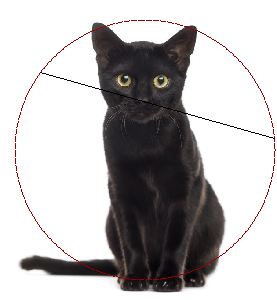
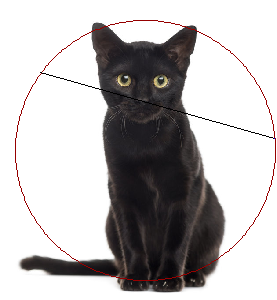
need to add pixel calcs

diff --git a/imagetest.py b/imagetest.py
@@ -135,13 +135,13 @@ kitty = kitty.resize((kittyWidth, kittyHeight))
 
 draw = ImageDraw.Draw(kitty)
 
-for pix in coords:
-    draw.point(((pix)), fill=(150))
+# for pix in coords:
+#     draw.point(((pix)), fill=(150))
 
-# x=137
-# y=150
-# r=132
-# draw.ellipse((x-r, y-r, x+r, y+r), outline=(150))
+x=145
+y=150
+r=130
+draw.ellipse((x-r, y-r, x+r, y+r), outline=(150))
 
 # draw.point((x-r, y-r, x+r, y+r), fill=(150))
 # draw.point((85, 101), fill=(150))
@@ -150,4 +150,6 @@ draw.line([(274, 138), (40, 72)], fill=150)
 bre = list(bresenham(int(274.4766582193811), int(138.3468898425535), int(40.51789151199743), int(72.64698450673521)))
 for pix in bre:
     kitty.putpixel(((pix)), ImageColor.getcolor('black', 'RGBA'))
+kitty.putpixel(((274, 138)), ImageColor.getcolor('blue', 'RGBA'))
+print kitty.getpixel((274, 138))
 kitty.save("cat3.png")
